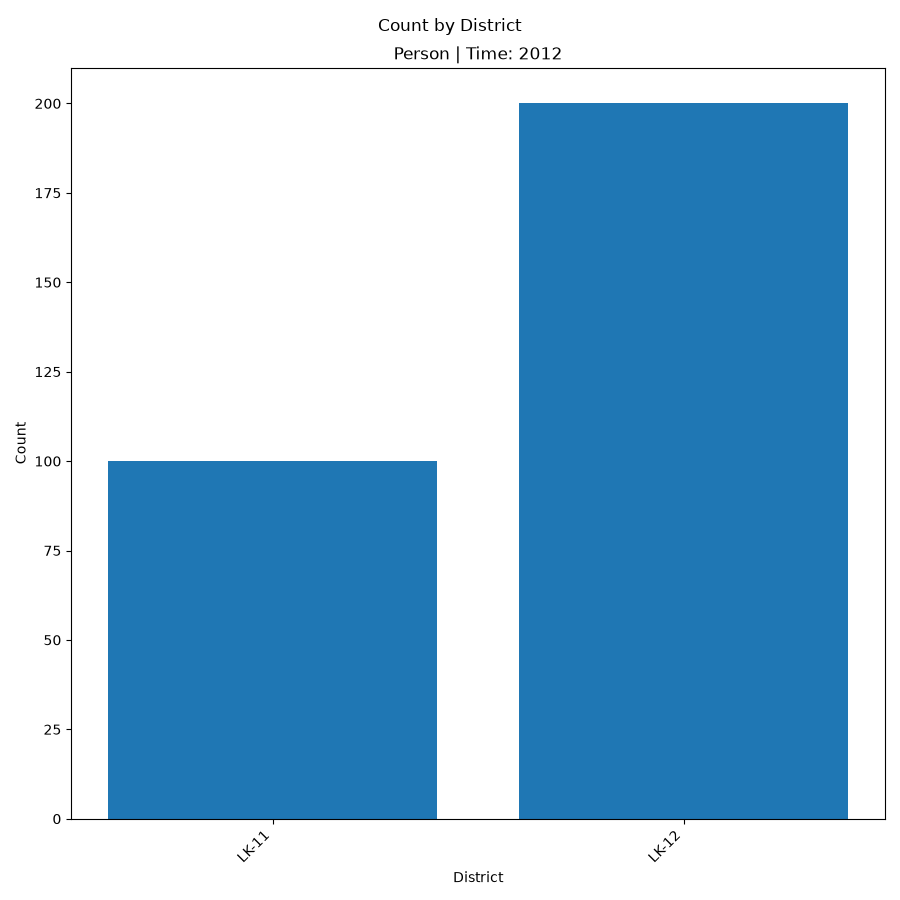
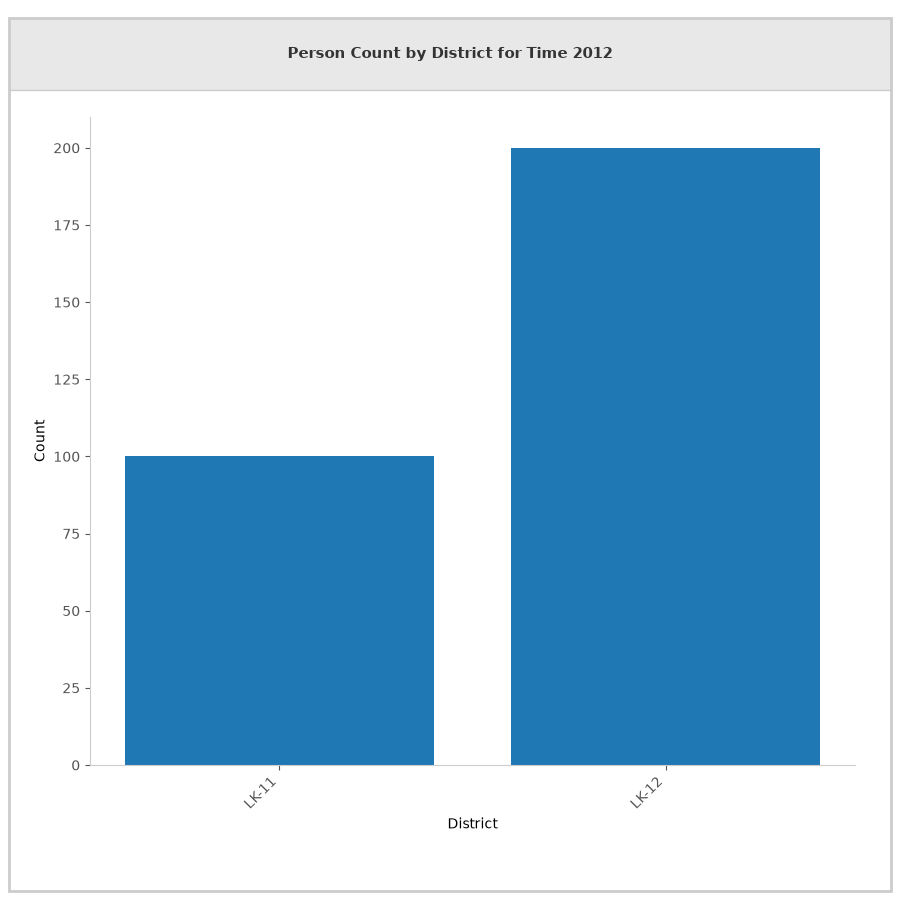
Add unit tests for BarChart by Time functionality
- Implemented tests for BarChart to validate x and y values, title, and subtitle.
- Created a test case to ensure the draw method returns a matplotlib figure.
- Utilized Datum and Datumset to generate test data for the BarChart.

diff --git a/src/ds/visual/Visual.py b/src/ds/visual/Visual.py
@@ -1,6 +1,13 @@
 from abc import ABC, abstractmethod
 
+import matplotlib.patches as mpatches
 import matplotlib.pyplot as plt
+
+STRIP_COLOR = '#e8e8e8'
+BORDER_COLOR = '#cccccc'
+TITLE_COLOR = '#333333'
+SUBTITLE_COLOR = '#555555'
+FONT_FAMILY = 'Inter'
 
 
 class Visual(ABC):
@@ -37,12 +44,68 @@ class Visual(ABC):
     def _plot(self, fig, ax):
         pass
 
+    def _build_full_title(self):
+        datum = self.datumset[0]
+        entity = datum.entity_class.__name__
+        other = [
+            f'{k} {v.get_value()}'
+            for k, v in datum.dim_idx.items()
+            if k not in self._excluded_dim_keys()
+        ]
+        suffix = ' for ' + ' and '.join(other) if other else ''
+        return f'{entity} {self._build_title()}{suffix}'
+
+    def _add_strip(self, fig):
+        strip = mpatches.Rectangle(
+            (0.01, 0.90),
+            0.98,
+            0.08,
+            transform=fig.transFigure,
+            facecolor=STRIP_COLOR,
+            edgecolor=BORDER_COLOR,
+            linewidth=1,
+            zorder=5,
+            clip_on=False,
+        )
+        fig.add_artist(strip)
+        fig.text(
+            0.5,
+            0.94,
+            self._build_full_title(),
+            ha='center',
+            va='center',
+            fontsize=11,
+            fontweight='bold',
+            color=TITLE_COLOR,
+            zorder=6,
+        )
+
+    def _apply_style(self, fig, ax):
+        self._add_strip(fig)
+        border = mpatches.Rectangle(
+            (0.01, 0.01),
+            0.98,
+            0.97,
+            transform=fig.transFigure,
+            fill=False,
+            edgecolor=BORDER_COLOR,
+            linewidth=2,
+            zorder=5,
+            clip_on=False,
+        )
+        fig.add_artist(border)
+        ax.spines['top'].set_visible(False)
+        ax.spines['right'].set_visible(False)
+        ax.spines['left'].set_color(BORDER_COLOR)
+        ax.spines['bottom'].set_color(BORDER_COLOR)
+        ax.tick_params(colors=SUBTITLE_COLOR)
+        fig.subplots_adjust(top=0.87, bottom=0.15, left=0.1, right=0.95)
+
     def draw(self):
-        fig, ax = plt.subplots(figsize=self.FIGSIZE, dpi=self.DPI)
-        self._plot(fig, ax)
-        ax.set_title(self._build_subtitle())
-        fig.suptitle(self._build_title())
-        fig.tight_layout()
-        fig.savefig(self._image_path())
+        with plt.rc_context({'font.family': FONT_FAMILY}):
+            fig, ax = plt.subplots(figsize=self.FIGSIZE, dpi=self.DPI)
+            self._plot(fig, ax)
+            self._apply_style(fig, ax)
+            fig.savefig(self._image_path())
         plt.close(fig)
         return fig

diff --git a/tests/test_barchart_by_time.py b/tests/test_barchart_by_time.py
@@ -1,0 +1,54 @@
+import unittest
+
+import matplotlib.figure
+
+from ds.datum.Datum import Datum
+from ds.datumset.Datumset import Datumset
+from ds.thing.ThingFactory import ThingFactory
+from ds.visual.BarChart import BarChart
+
+
+def _make_datum(year, count):
+    return Datum(
+        entity_class=ThingFactory["Person"],
+        dim_idx=dict(
+            District=ThingFactory["District"]["LK-11"],
+            Time=ThingFactory["Time"](year),
+        ),
+        cell_idx=dict(Count=ThingFactory["Int"](count)),
+    )
+
+
+def _make_datumset():
+    return Datumset(
+        _make_datum("2012", 100),
+        _make_datum("2013", 150),
+        _make_datum("2014", 120),
+    )
+
+
+class TestBarChartByTime(unittest.TestCase):
+
+    def setUp(self):
+        self.chart = BarChart(_make_datumset(), 'Time', 'Count')
+
+    def test_get_xy(self):
+        x_labels, y_values = self.chart._get_xy()
+        self.assertEqual(x_labels, ['2012', '2013', '2014'])
+        self.assertEqual(y_values, [100.0, 150.0, 120.0])
+
+    def test_title(self):
+        self.assertEqual(self.chart._build_title(), 'Count by Time')
+
+    def test_subtitle_has_district(self):
+        subtitle = self.chart._build_subtitle()
+        self.assertIn('District', subtitle)
+        self.assertIn('LK-11', subtitle)
+
+    def test_draw(self):
+        fig = self.chart.draw()
+        self.assertIsInstance(fig, matplotlib.figure.Figure)
+
+
+if __name__ == '__main__':
+    unittest.main()

diff --git a/tests/test_piechart.py b/tests/test_piechart.py
@@ -32,35 +32,35 @@ class TestPieChart(unittest.TestCase):
 
     def setUp(self):
         self.datumset = _make_datumset()
-        self.chart = PieChart(self.datumset, 'District', 'Count')
+        self.chart = PieChart(self.datumset, "District", "Count")
 
     def test_init(self):
         self.assertIs(self.chart.datumset, self.datumset)
-        self.assertEqual(self.chart.x_dim_key, 'District')
-        self.assertEqual(self.chart.y_cell_key, 'Count')
+        self.assertEqual(self.chart.x_dim_key, "District")
+        self.assertEqual(self.chart.y_cell_key, "Count")
 
     def test_get_xy(self):
         x_labels, y_values = self.chart._get_xy()
-        self.assertEqual(x_labels, ['LK-11', 'LK-12'])
+        self.assertEqual(x_labels, ["LK-11", "LK-12"])
         self.assertEqual(y_values, [100.0, 200.0])
 
     def test_excluded_dim_keys(self):
-        self.assertIn('District', self.chart._excluded_dim_keys())
+        self.assertIn("District", self.chart._excluded_dim_keys())
 
     def test_build_title(self):
-        self.assertEqual(self.chart._build_title(), 'Count by District')
+        self.assertEqual(self.chart._build_title(), "Count by District")
 
     def test_build_subtitle(self):
         subtitle = self.chart._build_subtitle()
-        self.assertIn('Person', subtitle)
-        self.assertIn('Time', subtitle)
+        self.assertIn("Person", subtitle)
+        self.assertIn("Time", subtitle)
 
     def test_image_path(self):
         path = self.chart._image_path()
-        self.assertTrue(path.startswith('image' + os.sep))
-        self.assertIn('District', path)
-        self.assertIn('Count', path)
-        self.assertTrue(path.endswith('.png'))
+        self.assertTrue(path.startswith("image" + os.sep))
+        self.assertIn("District", path)
+        self.assertIn("Count", path)
+        self.assertTrue(path.endswith(".png"))
 
     def test_draw_saves_image(self):
         self.chart.draw()
@@ -73,5 +73,5 @@ class TestPieChart(unittest.TestCase):
         self.assertIsInstance(fig, matplotlib.figure.Figure)
 
 
-if __name__ == '__main__':
+if __name__ == "__main__":
     unittest.main()

diff --git a/src/ds/visual/PieChart.py b/src/ds/visual/PieChart.py
@@ -2,7 +2,7 @@ import os
 
 from ds.visual.Visual import Visual
 
-IMAGE_DIR = 'image'
+IMAGE_DIR = "image"
 
 
 class PieChart(Visual):
@@ -17,23 +17,21 @@ class PieChart(Visual):
         y_values = []
         for datum in self.datumset:
             x_labels.append(datum.dim_idx[self.x_dim_key].get_value())
-            y_values.append(
-                float(datum.cell_idx[self.y_cell_key].get_value())
-            )
+            y_values.append(float(datum.cell_idx[self.y_cell_key].get_value()))
         return x_labels, y_values
 
     def _excluded_dim_keys(self):
         return {self.x_dim_key}
 
     def _build_title(self):
-        return f'{self.y_cell_key} by {self.x_dim_key}'
+        return f"{self.y_cell_key} by {self.x_dim_key}"
 
     def _image_path(self):
         os.makedirs(IMAGE_DIR, exist_ok=True)
-        name = f'piechart_{self.x_dim_key}_{self.y_cell_key}.png'
+        name = f"piechart_{self.x_dim_key}_{self.y_cell_key}.png"
         return os.path.join(IMAGE_DIR, name)
 
     def _plot(self, fig, ax):
         x_labels, y_values = self._get_xy()
-        ax.pie(y_values, labels=x_labels, autopct='%1.1f%%')
+        ax.pie(y_values, labels=x_labels, autopct="%1.1f%%")
         ax.set_xlabel(self.x_dim_key)